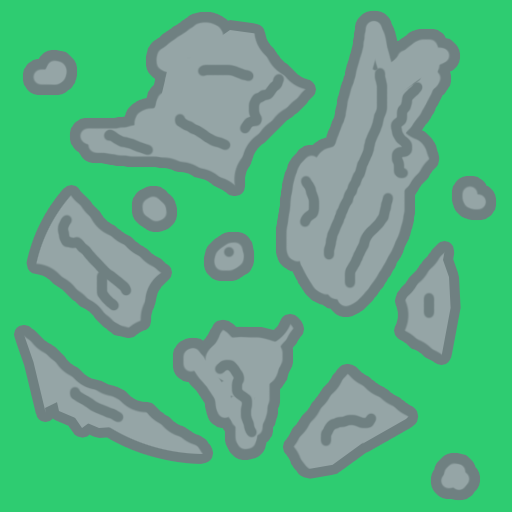
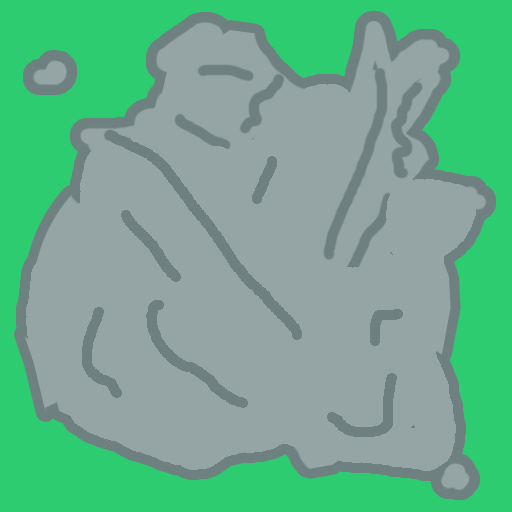
Modifs menu lancement

diff --git a/src/wargame/LancementJeu.java b/src/wargame/LancementJeu.java
@@ -2,23 +2,40 @@ package wargame;
 
 import java.awt.*;
 import java.awt.event.*;
+import java.io.File;
+import java.io.IOException;
 
+import javax.imageio.ImageIO;
 import javax.swing.*;
-public class LancementJeu extends JPanel
+
+public class LancementJeu extends JPanel implements IConfig
 {
 	private static final long serialVersionUID = 1877005263173998764L;
 	
+	Image titre;
+	Image fond;
+	
 	public LancementJeu()
 	{	
+		try
+		{
+			titre = ImageIO.read(new File("img/titre.png"));
+			fond = ImageIO.read(new File("img/menu.png"));
+			
+		}catch (IOException e){System.out.println("Impossible d'ouvrir l'image "+e.getMessage());e.printStackTrace();}
+
+		
 		setLayout(new BorderLayout());
 		setBackground(new Color(200,200,200));
 		setOpaque(true);
-		setPreferredSize(new Dimension(IConfig.LARGEUR_CARTE*IConfig.NB_PIX_CASE,IConfig.HAUTEUR_CARTE*IConfig.NB_PIX_CASE+70));		
+		setPreferredSize(new Dimension(IConfig.LARGEUR_CARTE*IConfig.NB_PIX_CASE, IConfig.HAUTEUR_CARTE*IConfig.NB_PIX_CASE+70));		
 	}
 	
 	public void paintComponent(Graphics g)
 	{
 		super.paintComponent(g);
-	
+		
+	    g.drawImage(fond, 0, 0, g.getClipBounds().width, g.getClipBounds().height, null);
+	    g.drawImage(titre, (g.getClipBounds().width-768)/2, (g.getClipBounds().height-880)/2, 768, 432, null);
 	}
 }

diff --git a/src/wargame/Carte.java b/src/wargame/Carte.java
@@ -2,13 +2,7 @@ package wargame;
 
 import java.awt.Color;
 import java.awt.Graphics;
-import java.awt.Image;
-import java.io.File;
-import java.io.IOException;
 import java.io.Serializable;
-
-import javax.imageio.ImageIO;
-import javax.swing.JPanel;
 
 import wargame.ISoldat.TypesH;
 import wargame.ISoldat.TypesM;

diff --git a/src/wargame/IConfig.java b/src/wargame/IConfig.java
@@ -12,6 +12,6 @@ public interface IConfig
 	Color COULEUR_EAU = Color.blue, COULEUR_FORET = Color.green, COULEUR_ROCHER = Color.gray;
 	int NB_SPRITE_FORET = 1;
 	int NB_SPRITE_EAU = 1;
-	int NB_SPRITE_ROCHER = 2;	
+	int NB_SPRITE_ROCHER = 3;	
 	int NB_SPRITE_HERBE = 2;
 }

diff --git a/src/wargame/Soldat.java b/src/wargame/Soldat.java
@@ -1,10 +1,5 @@
 package wargame;
 
-import java.awt.Color;
-import wargame.ISoldat.TypesH;
-import wargame.ISoldat.TypesM;
-import wargame.Obstacle.TypeObstacle;
-
 public abstract class Soldat extends Element implements ISoldat, IConfig
 {
 	protected int points_de_vie;

diff --git a/src/wargame/Monstre.java b/src/wargame/Monstre.java
@@ -2,9 +2,6 @@ package wargame;
 
 import java.awt.Color;
 import java.awt.Graphics;
-import java.awt.image.ImageObserver;
-
-import javax.swing.JPanel;
 
 public class Monstre extends Soldat
 {
